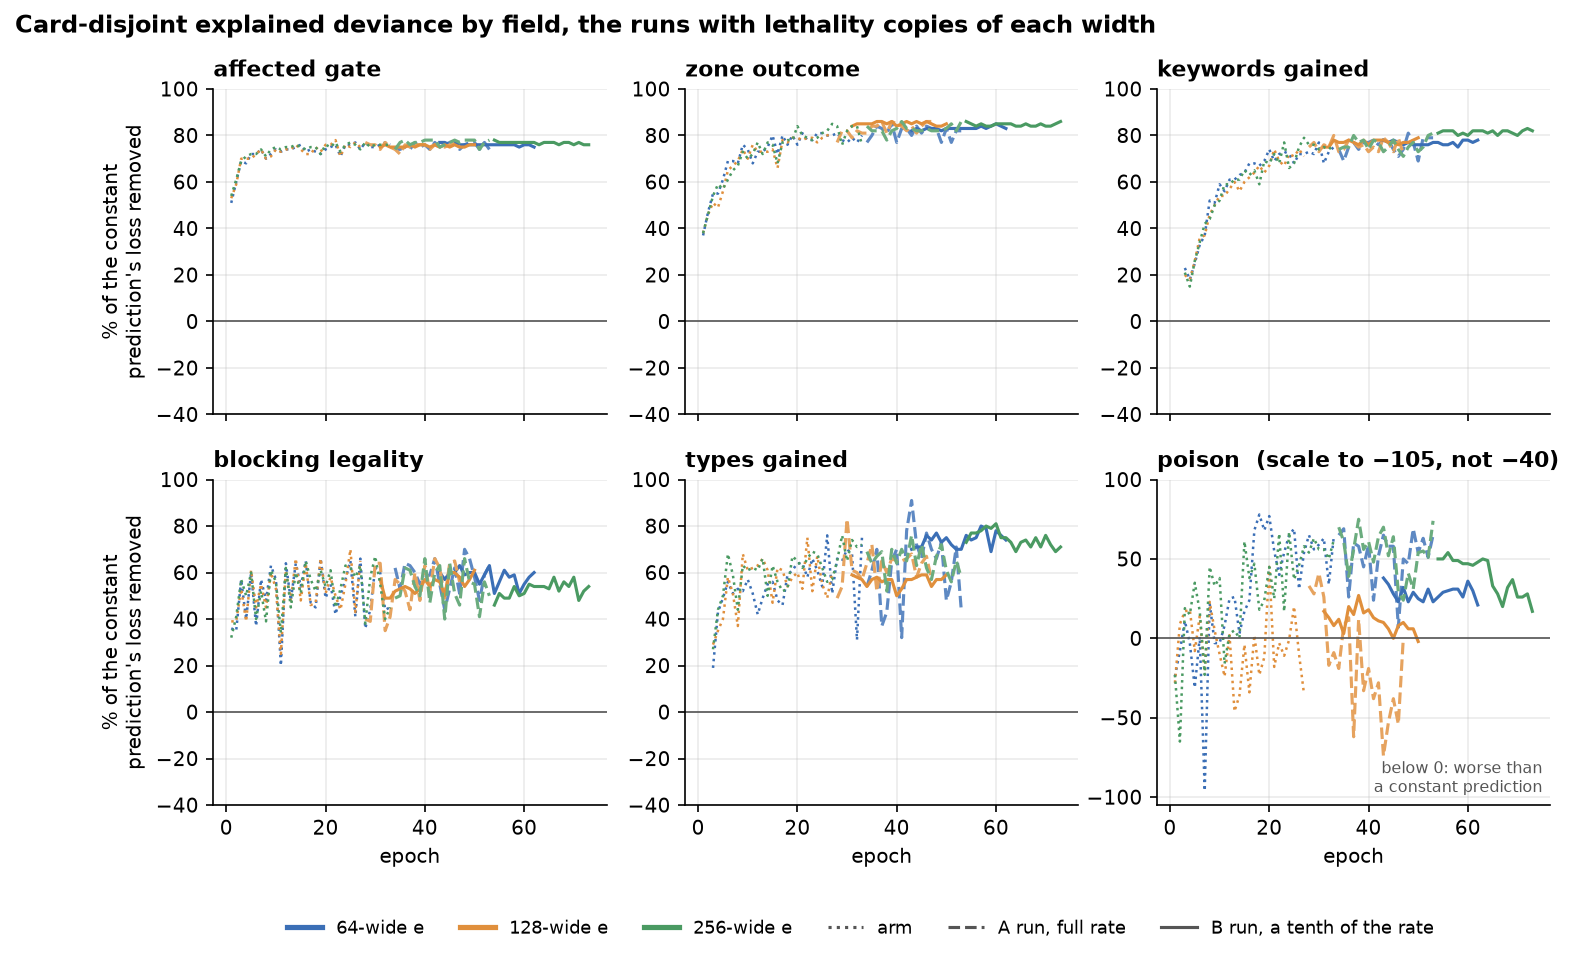
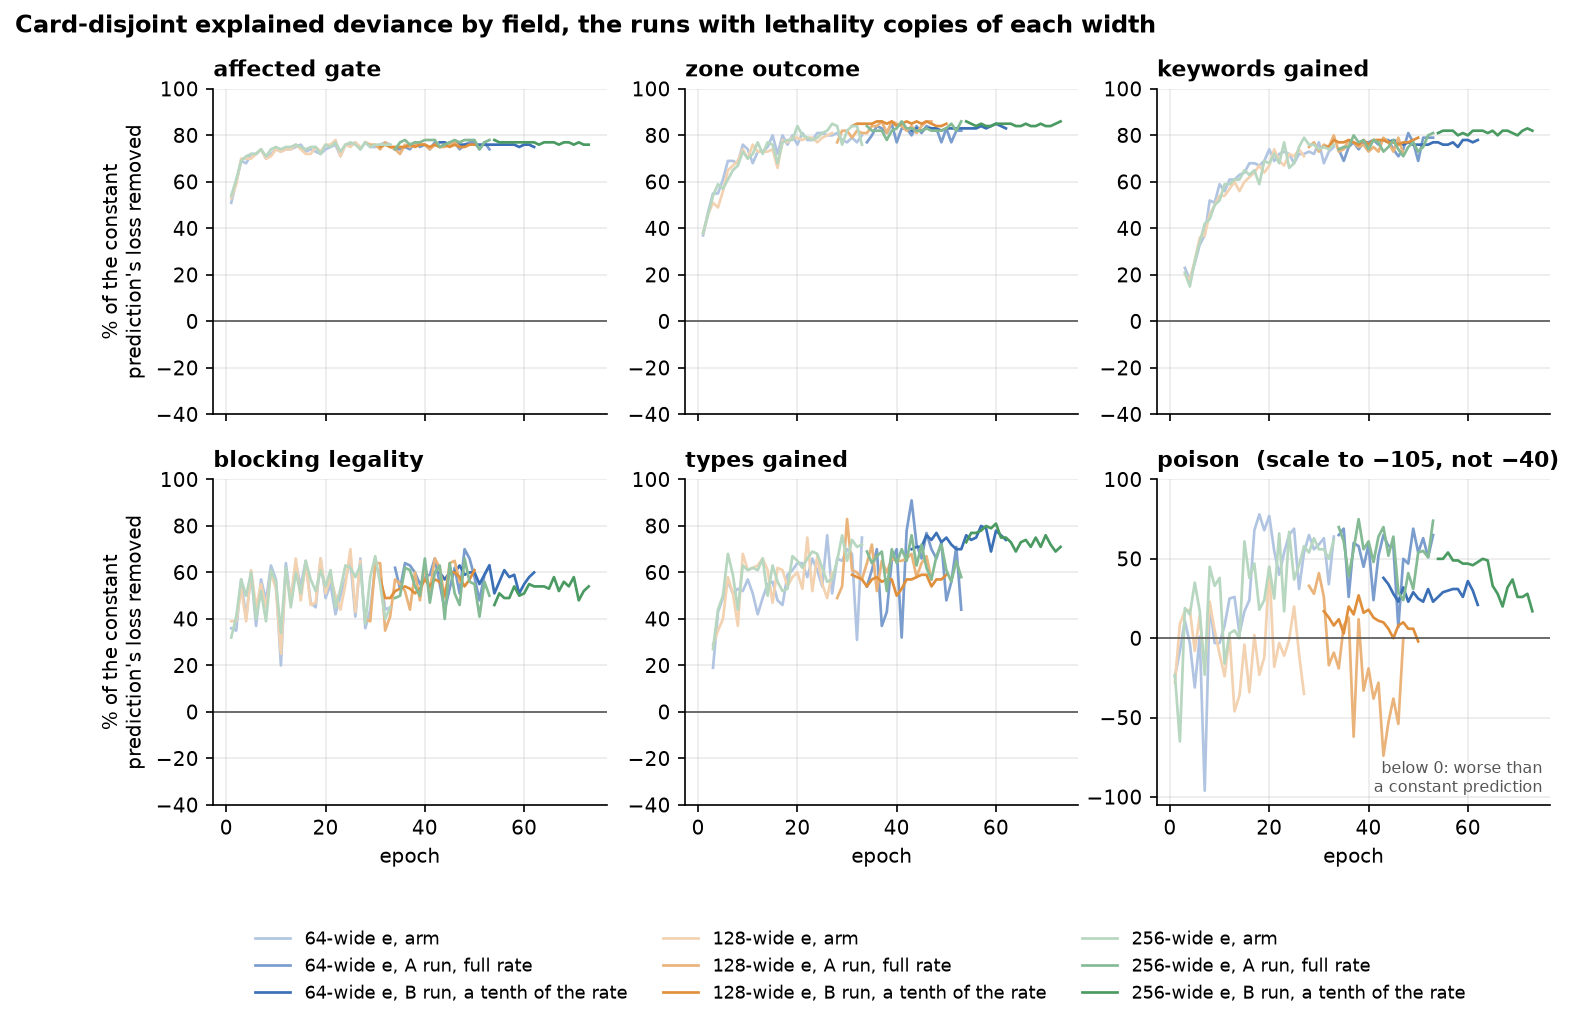
docs(effects-report): per-epoch loss and explained-deviance curves are solid, stage by colour
Dots and dashes could not be followed on curves this noisy. training-losses
gives each stage its own colour at one thickness; fields-explained keeps the
width's hue and marks the stage by lightness.

diff --git a/scripts/effect_gen2_report/make_charts.py b/scripts/effect_gen2_report/make_charts.py
@@ -49,6 +49,11 @@ STAGE_MARKER = {"arm": "^", "A": "s", "B": "o"}
 STAGE_LINE = {"arm": ":", "A": "--", "B": "-"}
 STAGE_NAME = {"arm": "arm", "A": "A run, full rate", "B": "B run, a tenth of the rate"}
 NO_COPIES_GRAY = "#9a9a9a"
+#: Stage colours for the noisy per-epoch curves, where line styles cannot be followed: one
+#: panel per width already gives the width, so every stage is a solid curve of its own colour.
+STAGE_CURVE = {"none": NO_COPIES_GRAY, "arm": "#cc79a7", "A": "#d55e00", "B": "#1f1f1f"}
+#: Per-epoch curves that must keep the width's hue mark the stage by lightness instead.
+STAGE_CURVE_SHADE = {"arm": 0.4, "A": 0.68, "B": 1.0}
 EARLIER_GRAY = "#c8c8c8"
 GEN1_GRAY = "#4d4d4d"
 LINES = {64: ("e64-lethality", "A64", "B64"), 128: ("e128-lethality", "A128", "B128"),
@@ -363,21 +368,16 @@ def training_losses() -> None:
             no_copies = NO_COPIES.get(width)
             if no_copies in set(ep.run):
                 d = ep[ep.run == no_copies]
-                ax.plot(d.epoch, d[metric], **run_line(no_copies), alpha=0.9)
+                ax.plot(d.epoch, d[metric], color=STAGE_CURVE["none"], lw=1.3)
             for run in LINES[width]:
                 d = ep[ep.run == run].sort_values("epoch")
                 if d.empty:
                     continue
                 stage = stage_of(run)
-                # Epoch dots would turn the arm's dots and the A run's dashes alike, so only
-                # the solid B run carries them, and the A run's dashes are drawn long.
-                style = run_line(run)
-                if stage == "A":
-                    style["ls"] = (0, (6, 2.5))
-                ax.plot(d.epoch, d[metric], marker="o" if stage == "B" else None, ms=2, **style)
+                ax.plot(d.epoch, d[metric], color=STAGE_CURVE[stage], lw=1.3)
                 best = d.loc[d.card_disjoint.idxmin()]
                 ax.plot(best.epoch, best[metric], STAGE_MARKER[stage], ms=9,
-                        color=WIDTH_COLOUR[width], mec="black", mew=0.8, zorder=5)
+                        color=STAGE_CURVE[stage], mec="white", mew=1.0, zorder=5)
             ax.set_ylim(*limits[metric])
             ax.set_xlim(5, last_epoch + 1)
             if row == 0:
@@ -389,12 +389,11 @@ def training_losses() -> None:
                     metric, metric.replace("_", "-") + " loss"))
             if row == len(metrics) - 1:
                 ax.set_xlabel("epoch")
-    handles = [Line2D([], [], color=NO_COPIES_GRAY, lw=1.2, label="arm without copies")]
-    handles += [Line2D([], [], color=INK_SOFT, lw=1.5, label=STAGE_NAME[s],
-                       ls=(0, (6, 2.5)) if s == "A" else STAGE_LINE[s])
-                for s in ("arm", "A", "B")]
-    handles += [Line2D([], [], marker="o", ls="none", ms=8, mfc=INK_SOFT, mec="black",
-                       label="large marker: the run's lowest card-disjoint epoch")]
+    handles = [Line2D([], [], color=STAGE_CURVE["none"], lw=1.3, label="arm without copies")]
+    handles += [Line2D([], [], color=STAGE_CURVE[s], lw=1.3, marker=STAGE_MARKER[s], ms=7,
+                       mec="white", label=STAGE_NAME[s]) for s in ("arm", "A", "B")]
+    handles += [Line2D([], [], ls="none", label="large marker: the run's lowest "
+                       "card-disjoint epoch")]
     fig.legend(handles=handles, loc="lower center", ncol=5, bbox_to_anchor=(0.5, -0.025),
                fontsize=8.5)
     fig.suptitle("Validation and training losses by epoch; the large marker is each run's lowest "
@@ -570,8 +569,8 @@ def probes_vs_loss() -> None:
 def field_explained() -> None:
     """Card-disjoint explained deviance per field and epoch, the runs with copies by width.
 
-    The arms' dotted curves overlap before epoch 30, so here they keep their width's full
-    hue rather than the arm's lighter shade; the line style alone marks the stage.
+    The curves are too noisy to follow as dots and dashes, so every curve is solid at one
+    thickness: the hue gives the width and the lightness the stage, light arm to dark B run.
     """
     fe = csv("fields_by_epoch.csv")
     fields = [("gate", "affected gate"), ("zone_outcome", "zone outcome"),
@@ -585,10 +584,8 @@ def field_explained() -> None:
             for run in LINES[width]:
                 d = fe[(fe.run == run) & (fe.field == field)].sort_values("epoch")
                 if not d.empty:
-                    style = run_line(run)
-                    if stage_of(run) == "arm":
-                        style.update(color=WIDTH_COLOUR[width], lw=1.2)
-                    ax.plot(d.epoch, d.explained_pct, **style)
+                    colour = shade(WIDTH_COLOUR[width], STAGE_CURVE_SHADE[stage_of(run)])
+                    ax.plot(d.epoch, d.explained_pct, color=colour, lw=1.3)
                     low = min(low, d.explained_pct.min())
                     widths.add(width)
         ax.set_title(label)
@@ -603,8 +600,11 @@ def field_explained() -> None:
         ax.set_ylabel("% of the constant\nprediction's loss removed")
     for ax in axes[1]:
         ax.set_xlabel("epoch")
-    fig.legend(handles=line_handles(sorted(widths), no_copies=False), loc="lower center", ncol=6,
-               bbox_to_anchor=(0.5, -0.05), fontsize=8.5)
+    handles = [Line2D([], [], color=shade(WIDTH_COLOUR[w], STAGE_CURVE_SHADE[s]), lw=1.3,
+                      label=f"{w}-wide e, {STAGE_NAME[s]}")
+               for w in sorted(widths) for s in ("arm", "A", "B")]
+    fig.legend(handles=handles, loc="lower center", ncol=3, bbox_to_anchor=(0.5, -0.12),
+               fontsize=8.5)
     fig.suptitle("Card-disjoint explained deviance by field, the runs with lethality copies of "
                  "each width",
                  x=0.01, ha="left", y=0.96)
@@ -2888,9 +2888,10 @@ def share_vs_reliance() -> None:
              "firing, which have no ablation field;\nthe two legal-target questions, which read "
              "the affected gate, so their reliance is card affected's.", fontsize=7.8,
              color=INK_SOFT)
-    ax.set_title("Of the questions drawn, only pump duration has a share the probes record's rule "
-                 "can read: e carries\nthe answer and the trunk relies on it; deaths and affected cards "
-                 f"need a stronger probe first ({len(names)} gen-2 checkpoints)", pad=22)
+    ax.set_title("Of the questions drawn, only pump duration has a share the probes record's "
+                 "rule can read: e carries\nthe answer and the trunk relies on it; deaths and "
+                 "affected cards need a stronger probe first "
+                 f"({len(names)} gen-2 checkpoints)", pad=22)
     save(fig, "share-vs-reliance")
 
 

diff --git a/experiments/2026-09-18-effect-model-gen2-improvements-design.md b/experiments/2026-09-18-effect-model-gen2-improvements-design.md
@@ -707,7 +707,7 @@ Both validation losses fall quickly for about ten epochs and slowly after that. 
 
 ![Card-disjoint, game-disjoint and training loss by epoch for every run, one column per width of e](2026-09-18-effect-model-gen2/charts/training-losses.png)
 
-*One column per width of `e`. Curve style gives the stage: dotted the arm with copies, long-dashed the A run at the full rate, solid with a dot per epoch the B run at a tenth of it; grey is the arm without copies. The large marker with a black edge is each run's lowest card-disjoint epoch, shaped by stage: triangle for the arm, square for the A run, circle for the B run. The bottom row is the training loss, averaged over each epoch's 5,000 steps; it runs about a tenth higher with lethality copies, which add records the corpus rarely shows. Data: `epochs.csv`.*
+*One column per width of `e`. Every curve is solid, and its colour gives the stage: pink the arm with copies, red-orange the A run at the full rate, black the B run at a tenth of it, grey the arm without copies. The large marker is each run's lowest card-disjoint epoch, shaped by stage: triangle for the arm, square for the A run, circle for the B run. The bottom row is the training loss, averaged over each epoch's 5,000 steps; it runs about a tenth higher with lethality copies, which add records the corpus rarely shows. Data: `epochs.csv`.*
 
 The card-disjoint loss swings more than the game-disjoint loss in almost every run. The card-disjoint stratum holds 500 held-out texts, and how well the model generalizes to each of them changes from epoch to epoch. The training loss moves by two to three hundredths in every run.
 
@@ -727,7 +727,7 @@ The fields with many records, such as the affected gate, the zone outcome and th
 
 ![Card-disjoint explained deviance by epoch for six output fields, for the runs with lethality copies of each width](2026-09-18-effect-model-gen2/charts/fields-explained.png)
 
-*Card-disjoint explained deviance per epoch for the runs with lethality copies. Colour gives the width of `e`, and the curve style the stage: dotted the arm, dashed the A run, solid the B run. The arms keep their width's full hue here, so the three dotted curves stay apart. Below 0 is worse than a constant prediction. The poison panel's scale reaches −105, against −40 on the others. Data: `fields_by_epoch.csv`.*
+*Card-disjoint explained deviance per epoch for the runs with lethality copies. Every curve is solid: its hue gives the width of `e` and its lightness the stage, from the lightest for the arm through the A run to the full hue for the B run. Below 0 is worse than a constant prediction. The poison panel's scale reaches −105, against −40 on the others. Data: `fields_by_epoch.csv`.*
 
 Poison is the clearest case. After the first twenty epochs its explained deviance moves between a fifth and seven tenths from epoch to epoch on the 64-wide runs, and the 256-wide runs stay in the same band. On the 128-wide runs it rarely rises above two fifths and often falls below zero, worse than a constant prediction. Since the widest and the narrowest `e` agree, the 128-wide runs' poison is more likely their seed's level than an effect of width. Types gained and blocking legality swing by about thirty points. A comparison of two checkpoints on any of these fields is mostly a comparison of two draws. Gen-3 addresses these fields directly with a field-normalized loss, which divides each field's loss by its constant-predictor loss, and with adaptive sampling, which draws more of the records a weak field needs.
 
